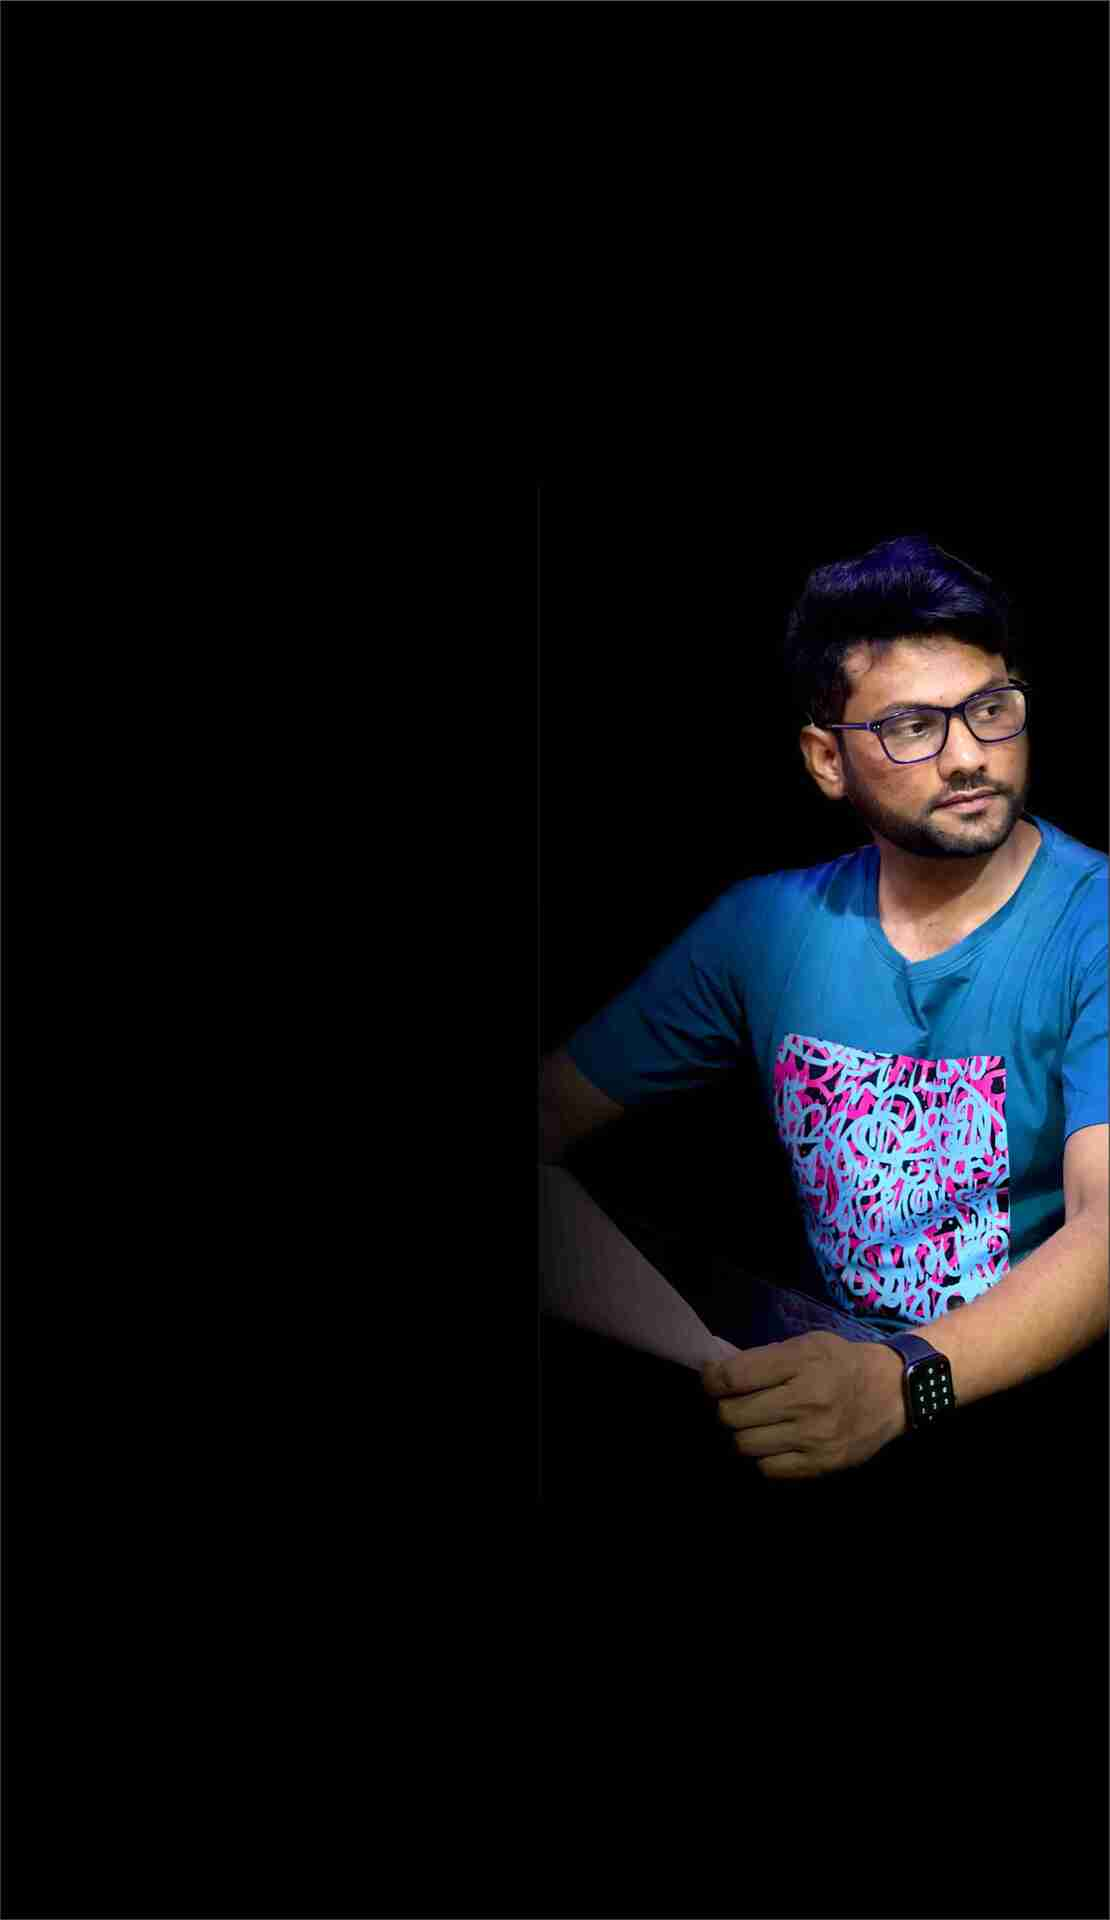
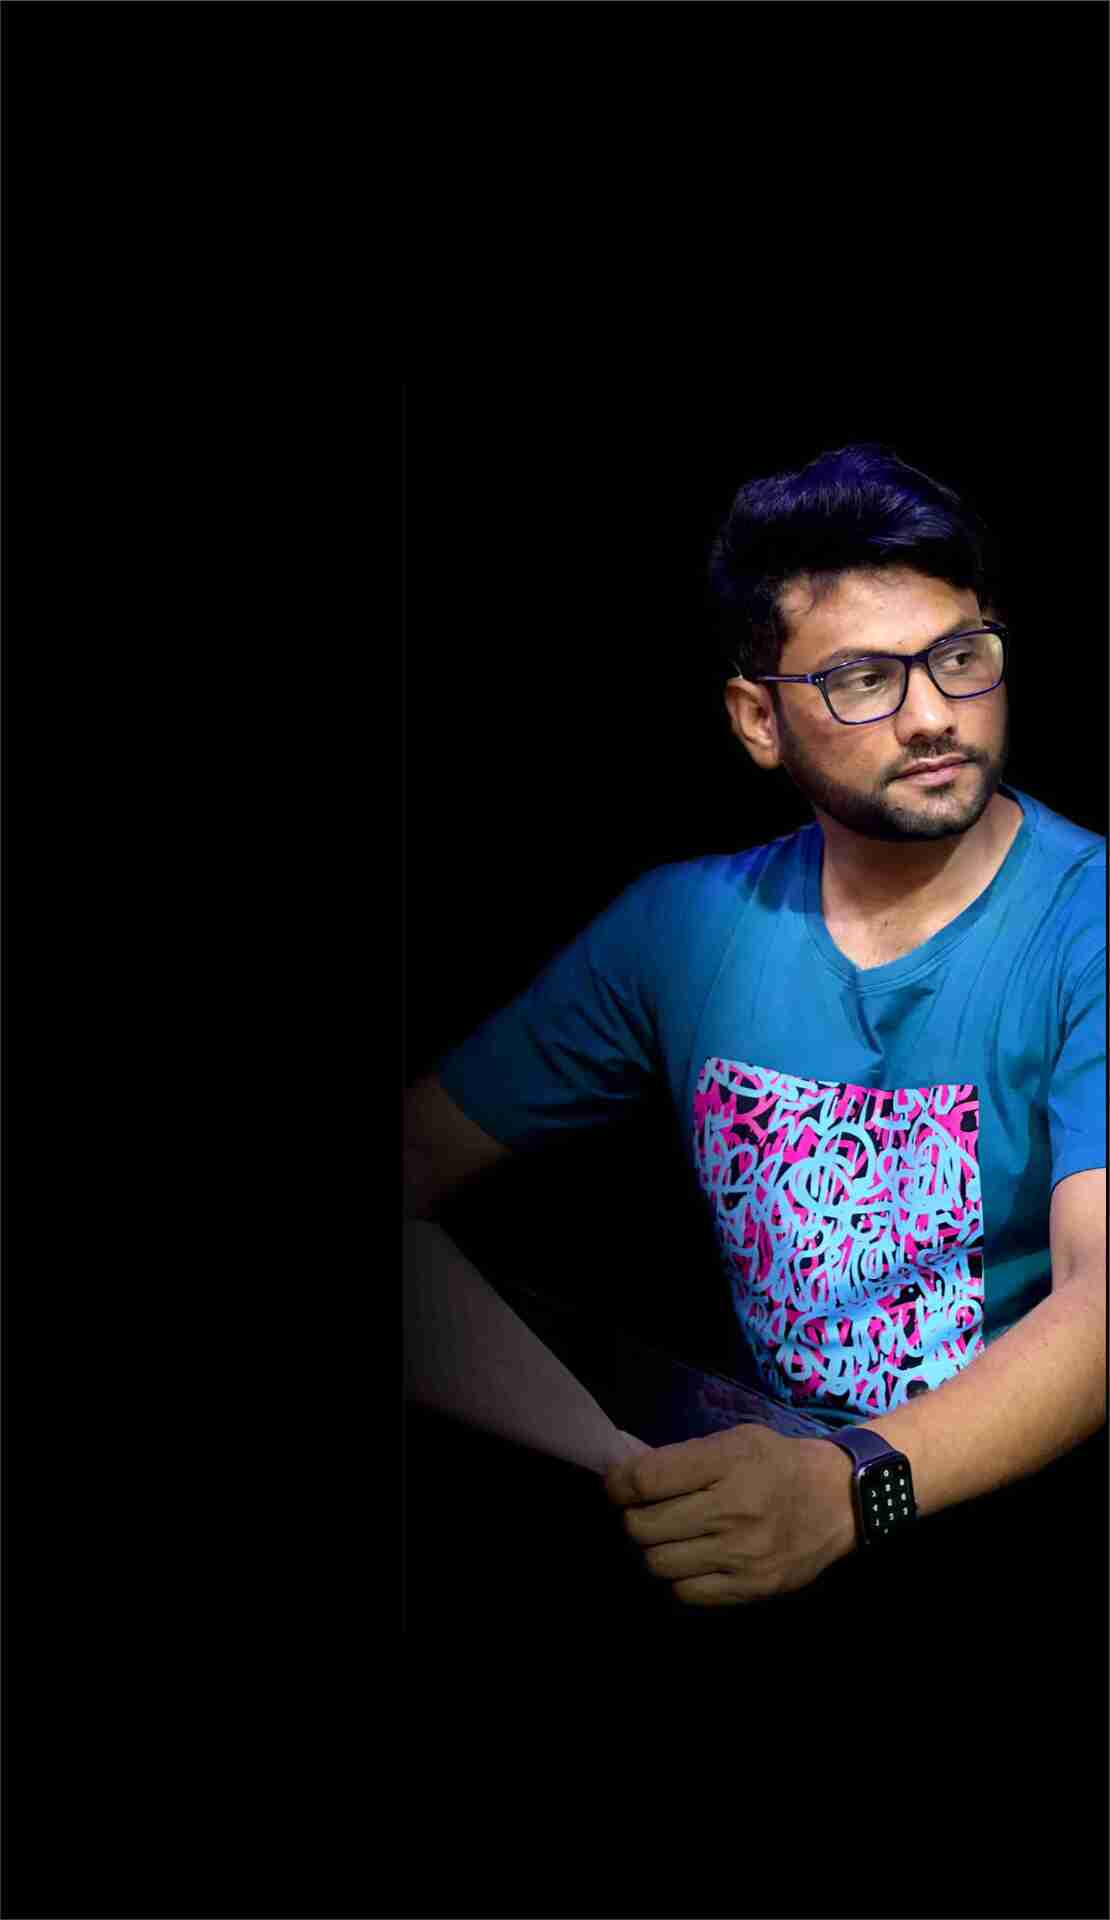
phbackground

Changed region(s): [[0.3676, 0.2188, 1.0, 0.8438]]

diff --git a/style.css b/style.css
@@ -359,10 +359,10 @@ nav .fa-solid {
 }
 @media only screen and (max-width: 764px) {
   #header {
-    background-image: url(images/phone-background2.jpg);
+    background-image: url(images/phone-background1.jpg);
   }
   .header-text {
-    margin-top: 63%;
+    margin-top: 80%;
     font-size: 16px;
   }
   .header-text h1 {
